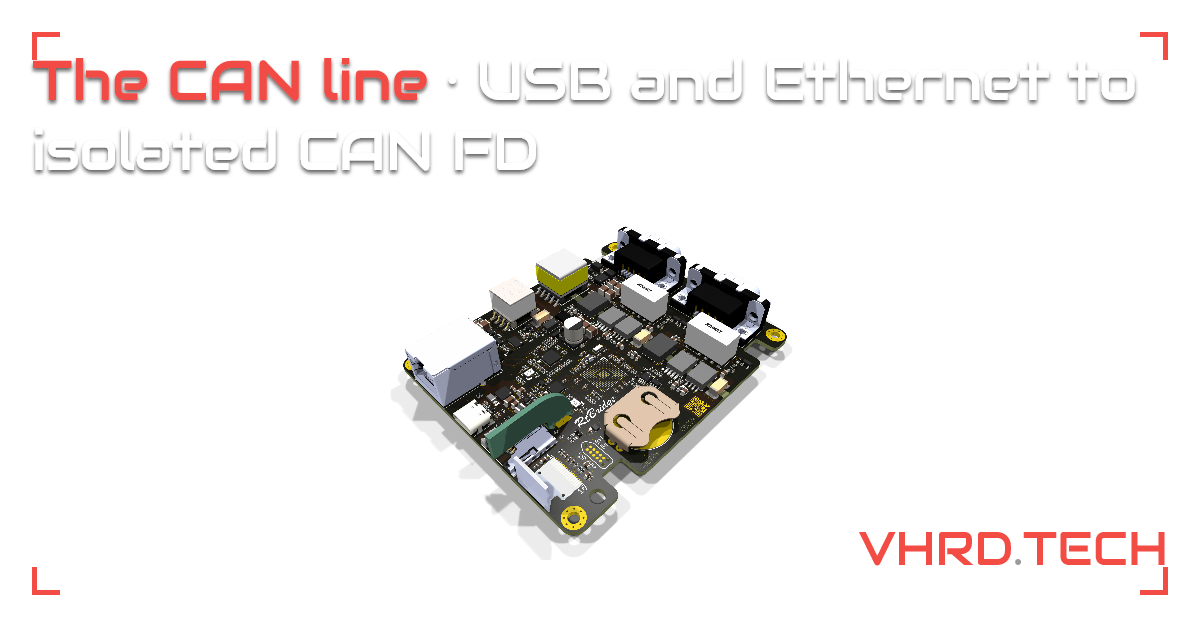
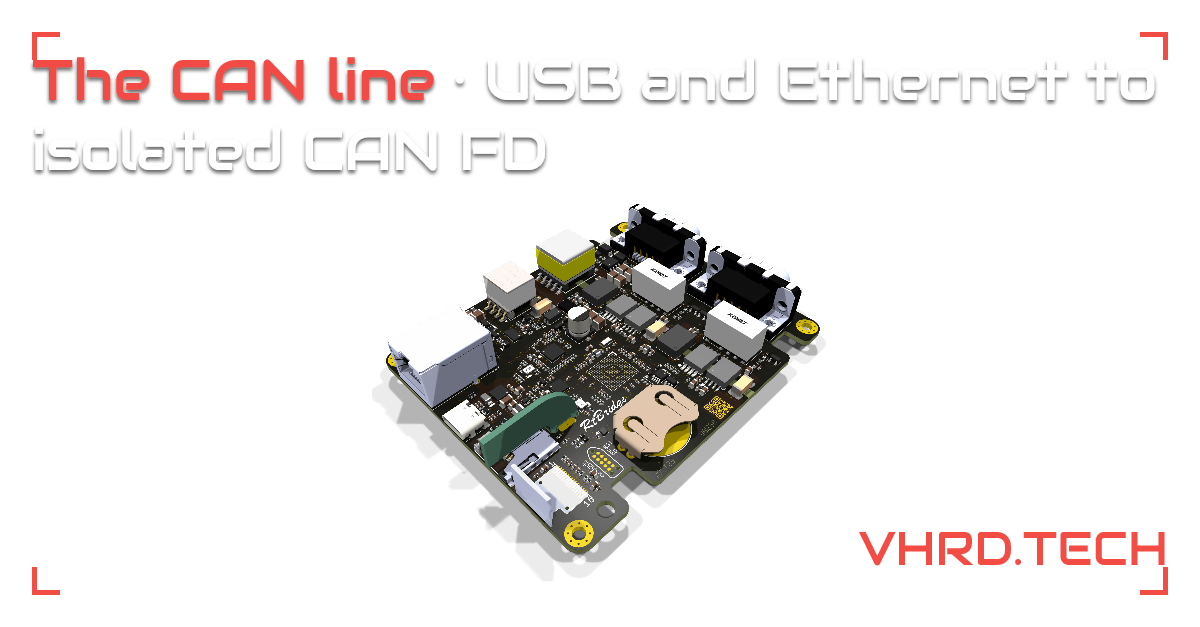
Share images, round 6 fix: restore the board size, halo and wordmark colour
Round 6's first SVG pass fit the board's full hero PNG (margin and all)
into its box instead of the cropped content, so the board rendered
noticeably smaller than d4f8ba9. Each SVG's board <image> box is now
computed from that board's own full-canvas size and transparent-margin
bbox so the visible board lands at the exact size/position d4f8ba9 had.

Also restores the soft halo behind the board (lost when the <ellipse>
wasn't repositioned), makes the wordmark's dot red again (the old
script recoloured every path to one red, dot included; .muted is now
unused and removed), and bumps the headline font-size 56->57px to
match d4f8ba9's 40px cap height exactly.

Changed region(s): [[0.3083, 0.3333, 0.7092, 0.9091], [0.0308, 0.0909, 0.9558, 0.1818], [0.0617, 0.2121, 0.4625, 0.303]]

diff --git a/assets/og/dark.css b/assets/og/dark.css
@@ -4,5 +4,4 @@
 .bg { display: none !important; }
 .ink { fill: #ffffff !important; }
 .red { fill: #f24c44 !important; }
-.muted { fill: #9a9a9a !important; }
 .headline-shadow { filter: url(#headline-shadow) !important; }

diff --git a/assets/og/light.css b/assets/og/light.css
@@ -3,5 +3,4 @@
 .bg { display: inline !important; }
 .ink { fill: #1a1a1a !important; }
 .red { fill: #c8141c !important; }
-.muted { fill: #6e6e6e !important; }
 .headline-shadow { filter: none !important; }

diff --git a/CHANGELOG.md b/CHANGELOG.md
@@ -4,7 +4,7 @@
 
 ### Added
 
-- Share images, round 6 (ASSET-2 og-images): the link-preview images' layout moves out of `tools/og_images.py` (420 lines of Pillow layout math) into six plain SVGs under `assets/og/`, one per name, each holding the whole frame as real markup — corners, the headline as `<text>`, the board picture by relative `href` to its existing hero render, the wordmark as the outline paths from `static/img/wordmark.svg` — so changing a headline or nudging the layout is opening the SVG in Inkscape or a text editor and running `just og`, not editing Python (Roman, 6 Nov 2026: "420 lines for 4 corners, a label and an image is not nice"). [resvg](https://github.com/linebender/resvg) (pinned in `justfile`, installed by `just install`) renders each SVG twice with a `--stylesheet` (`assets/og/light.css`, `dark.css`) to get the white `og:image` look and the transparent `twitter:image` look from the one file, instead of two separate Pillow drawing passes. `just og` is now a thin wrapper: it shells out to resvg, flattens the light render onto white as the JPEG and asserts every file 1200x627. File names bump to `-5`, since the rendering engine changed and pixels differ slightly even for the same layout (sub-pixel font hinting and anti-aliasing), so LinkedIn, Facebook and Telegram refetch instead of showing a cached preview.
+- Share images, round 6 (ASSET-2 og-images): the link-preview images' layout moves out of `tools/og_images.py` (420 lines of Pillow layout math) into six plain SVGs under `assets/og/`, one per name, each holding the whole frame as real markup — corners, the headline as `<text>`, the board picture by relative `href` to its existing hero render, the wordmark as the outline paths from `static/img/wordmark.svg` — so changing a headline or nudging the layout is opening the SVG in Inkscape or a text editor and running `just og`, not editing Python (Roman, 6 Nov 2026: "420 lines for 4 corners, a label and an image is not nice"). [resvg](https://github.com/linebender/resvg) (pinned in `justfile`, installed by `just install`) renders each SVG twice with a `--stylesheet` (`assets/og/light.css`, `dark.css`) to get the white `og:image` look and the transparent `twitter:image` look from the one file, instead of two separate Pillow drawing passes. `just og` is now a thin wrapper: it shells out to resvg, flattens the light render onto white as the JPEG and asserts every file 1200x627. File names bump to `-5`, since the rendering engine changed and pixels differ slightly even for the same layout (sub-pixel font hinting and anti-aliasing), so LinkedIn, Facebook and Telegram refetch instead of showing a cached preview. A first pass under-matched the approved `d4f8ba9` look: the board rendered at the full hero PNG's own margin instead of its cropped content, reading noticeably smaller (Roman, 6 Nov 2026). Each SVG's board `<image>` box is now sized and positioned from that board's own full-canvas size and transparent-margin bbox so the visible board lands at the exact pixel size and place `d4f8ba9` computed; the soft halo behind the board is back (an `<ellipse>` with the same blur, matching `d4f8ba9`'s pad and opacity, positioned to the new board box); the wordmark's dot is red again, not `.muted` grey (the old script recoloured every path to the one red, dot included); the headline's font size moves from 56px to 57px, the exact size `d4f8ba9` computed for its 40px cap height target.
 - Share images, round 5 (ASSET-2 og-images): a large Audiowide headline above the board on every `og:image`/`twitter:image`, wrapped to at most two lines, the product name before " · " in one red, not two side by side — `--vhrd-red`/light `--accent` (`#c8141c`) on the JPEG, dark `--accent` (`#f24c44`) on the PNG, the same colour the corners and the wordmark use on that image. `/donguru` gets its own image, split off the site default. The canvas stays exactly 1200x627 (1.91:1): 1200x630, considered this round, falls to 1.905:1, under the 1.91:1 LinkedIn needs to show its large card at all, so it was dropped — `tools/check_pages.py` now asserts the ratio explicitly, not only the exact pixel size. The four corner marks sit near the card's own edges (not a narrower square in the middle), enclosing the headline, the board and the wordmark with a margin: the headline's first line and the wordmark's own ink sit flush with the left and right corners' outer edges respectively (not inset further, and not their font/raster bounding boxes — the visible ink itself); LinkedIn's narrower 1:1 centre crop still cuts the corners and the headline, which is fine since only the board needs to survive it. The PNG headline is solid white with a soft shadow, not the hollow outline a first pass used. The board fills the space between the headline's gap and the bottom margin, sized from each headline's own measured height rather than a fixed worst-case reservation, so a one-line headline (/software) leaves it noticeably bigger instead of an empty gap. Its own bottom edge may now come within 12-16px of the bottom corner marks' legs, never touching (its width never reaches their x-range): boards end up 26-31% bigger than the first pass's for a two-line headline, 55% for /software's one-liner. The wordmark is about 1.3x bigger, then 1.25x again after a pass that trimmed its margin to zero left it sitting right on the corner mark: its baseline now sits the same distance above the frame's bottom edge as the headline's cap top sits below the frame's top edge, a deliberate mirror, and it sits over the board's own area near that corner rather than in a separate row the board had to stop short of. Every page's description is now 100-125 characters, not 100-160 (LinkedIn warns under 100 and truncates near 125). File names bump to `-4` so LinkedIn, Facebook and Telegram refetch instead of showing a cached preview.
 - /faq (SITE-16 faq-page): site-wide questions and answers from the approved FAQ draft, as `<details>` items grouped under three headings, The products, Working with us, The site, each with a stable anchor (`/faq/#cookies`, `#open-source`, `#shipping`, `#buy`...) that opens the right item on its own, no script needed. "Which computers do the tools work on?" names the real tools: IOWeaver, RockFace, `dg`, `cnt`, `ww` and `bedrock-lint` all run on Linux, Windows and macOS. Linked from the footer next to Privacy.
 - `LICENSE-MIT` and `LICENSE-APACHE` for the repo's code (templates, CSS, JS, `tools/`, `scripts/`, the `vhrd_notify` service); the content stays © VHRD.TECH AS, all rights reserved, and the IBM Plex fonts keep their own OFL notice.
